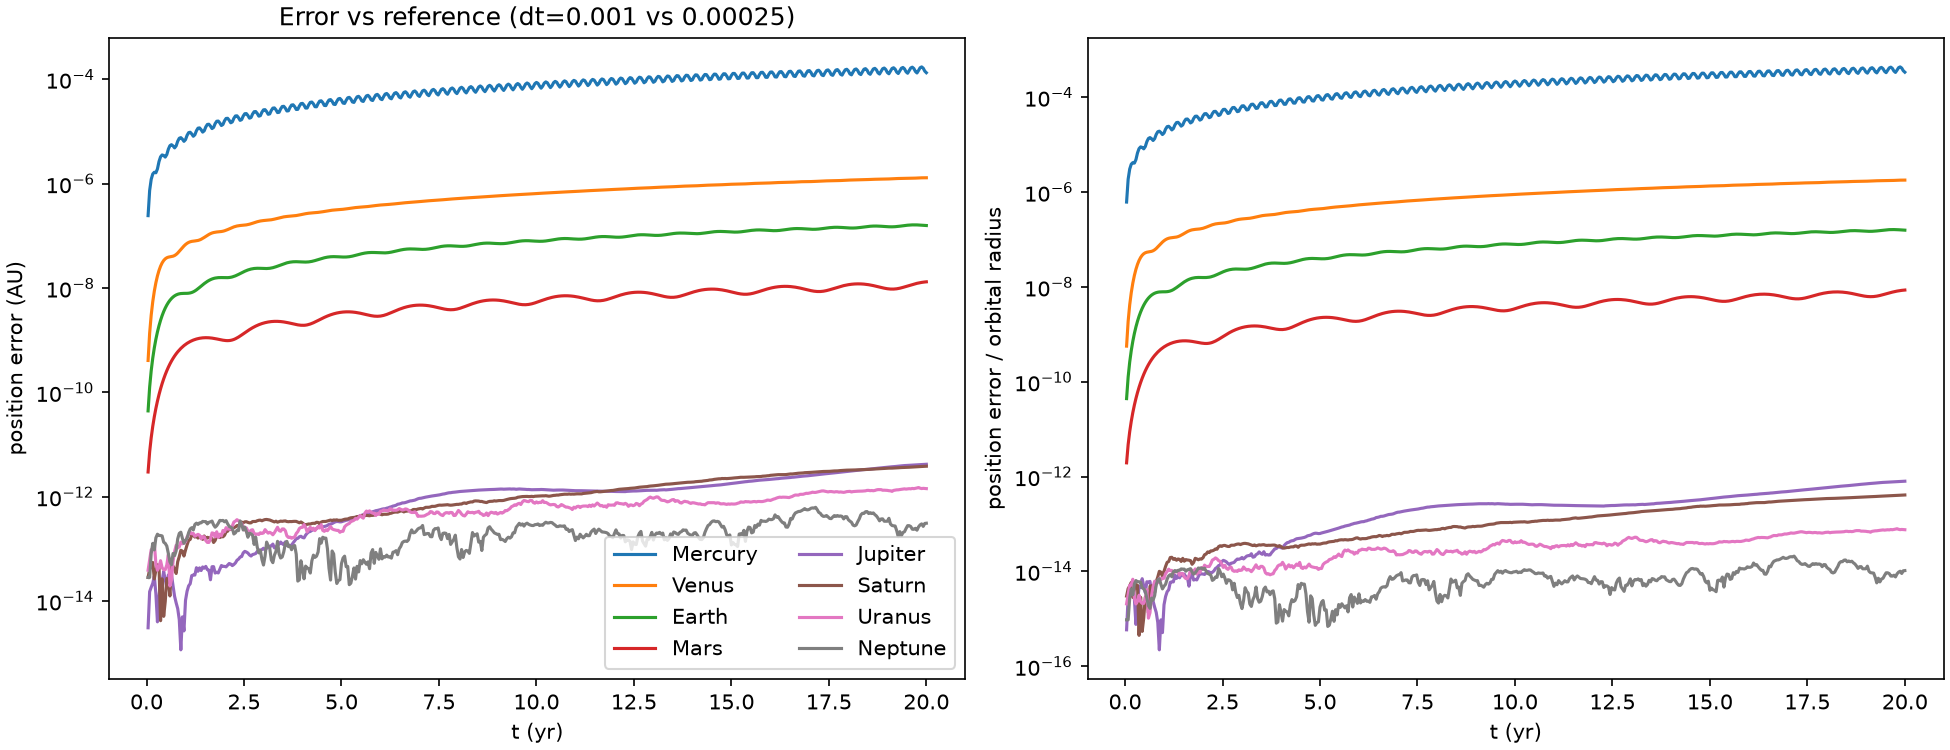
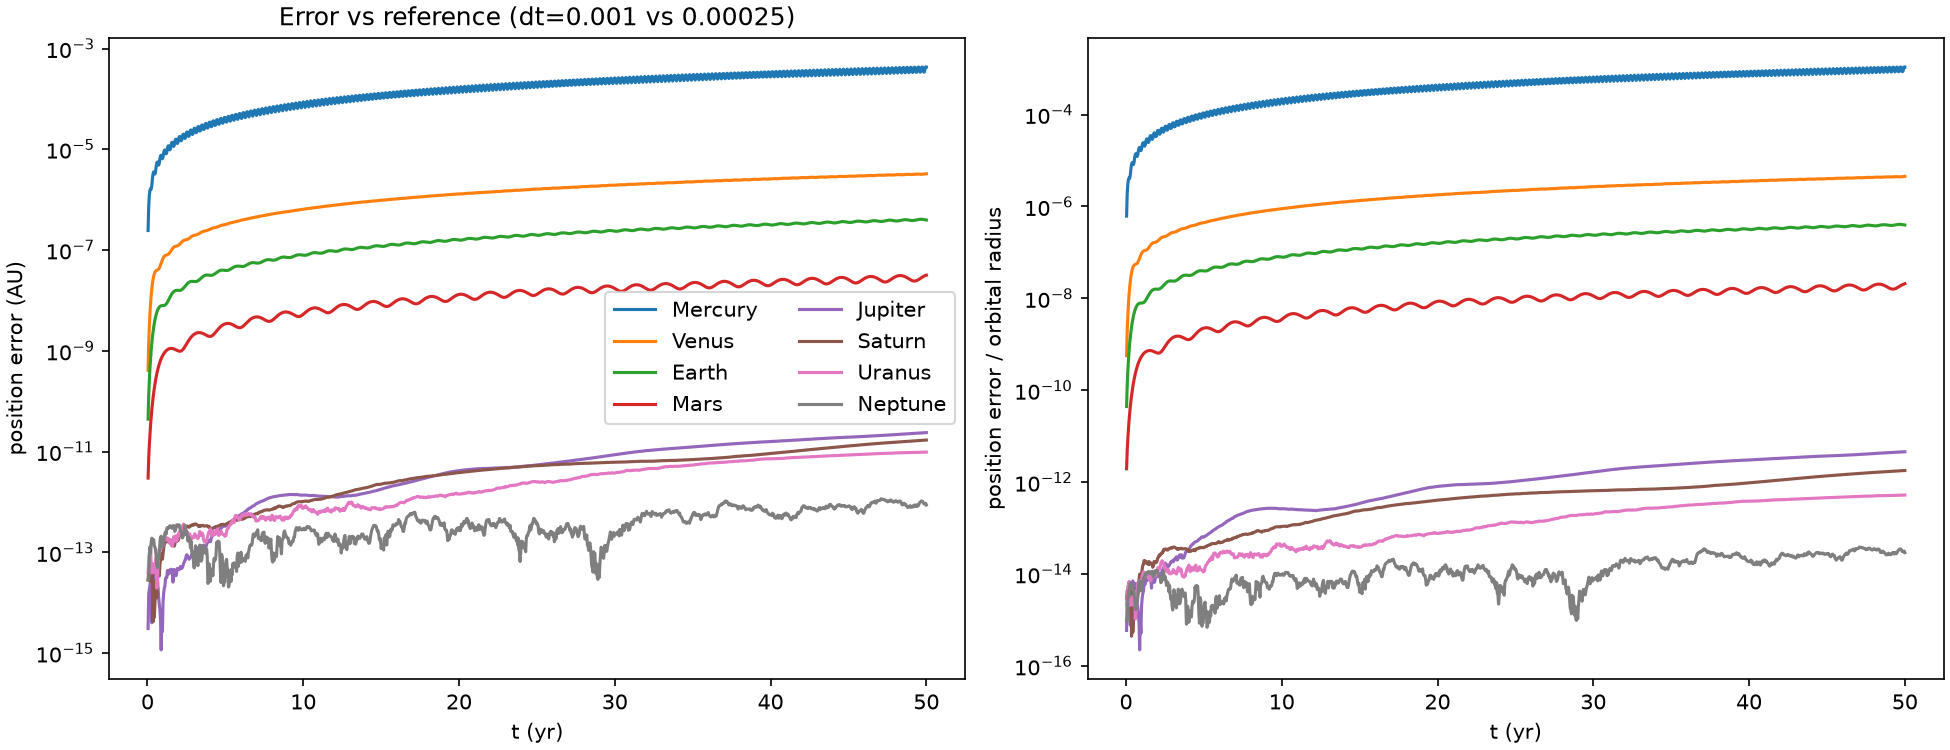
Simulation Timer

diff --git a/Implementation.py b/Implementation.py
@@ -1,6 +1,7 @@
 from engine import NBodySystem as nbs
 import numpy as np
 import matplotlib.pyplot as plt
+import time  
 
 # -----------------------------------------------------------------------------
 # 9-body solar system from JPL Horizons (run Initial_Conditions.py first)
@@ -23,7 +24,20 @@ sys_9 = nbs(masses=masses, positions=ic["r"], velocities=ic["v"])
 
 dt    = 0.001   # yr (about 240 steps per Mercury orbit)
 years = 200     # longer than one Neptune orbit (165 yr)
-out = sys_9.run(dt, int(years / dt), method=nbs.step_yoshida4, record_every=37)   # 37 so samples don't repeat at the same spots each orbit
+
+# Setup for timing the simulation
+n_steps = int(years / dt)
+t_start = time.perf_counter()
+
+# Main simulation run
+out = sys_9.run(dt, n_steps, method=nbs.step_yoshida4, record_every=37)   # 37 so samples don't repeat at the same spots each orbit
+
+# Simulation timing
+wall_time = time.perf_counter() - t_start
+print(f"Computation time: {wall_time:.2f} s ({wall_time / 60:.2f} min)")
+print(f"  {1e3 * wall_time / n_steps:.3f} ms per step | "
+      f"{wall_time / years:.3f} s per simulated year | "
+      f"{years / wall_time:.2f} simulated yr per second")
 
 # ---- Checks ----
 E0, L0 = out["E"][0], out["L"][0]
@@ -100,13 +114,11 @@ plt.savefig("solar_system_9body.png", dpi=150)
 
 # ---- Caiden Workspace ----
 
-# Error Analysis
-
 # Result Analysis with Plots
 
 # Validation
 
-# Computation times/Simulation time
+'''Computation times/Simulation time: MOSTLY DONE'''
 
 # 3d probability sampling with mass/velocity/radial distance
 

diff --git a/error_analysis.py b/error_analysis.py
@@ -6,7 +6,6 @@ from engine import NBodySystem as nbs
 ic = np.load("initial_conditions.npz")
 names = list(ic["names"])
 masses = [1.0, 1.66e-7, 2.45e-6, 3.04e-6, 3.23e-7, 9.55e-4, 2.86e-4, 4.37e-5, 5.15e-5]
-# (when you add Nibiru: append to masses/positions/velocities/names here and nothing else changes)
 
 def make_system():
     """Always build a fresh system: run() mutates the state in place."""
@@ -47,7 +46,7 @@ plt.savefig("convergence.png", dpi=150)
 
 years  = 20
 dt     = 0.001
-dt_ref = 0.00025            # ~80k steps; a couple of minutes. Reduce `years` if too slow.
+dt_ref = 0.00025
 
 out     = run_quiet(dt, years)
 out_ref = run_quiet(dt_ref, years)
